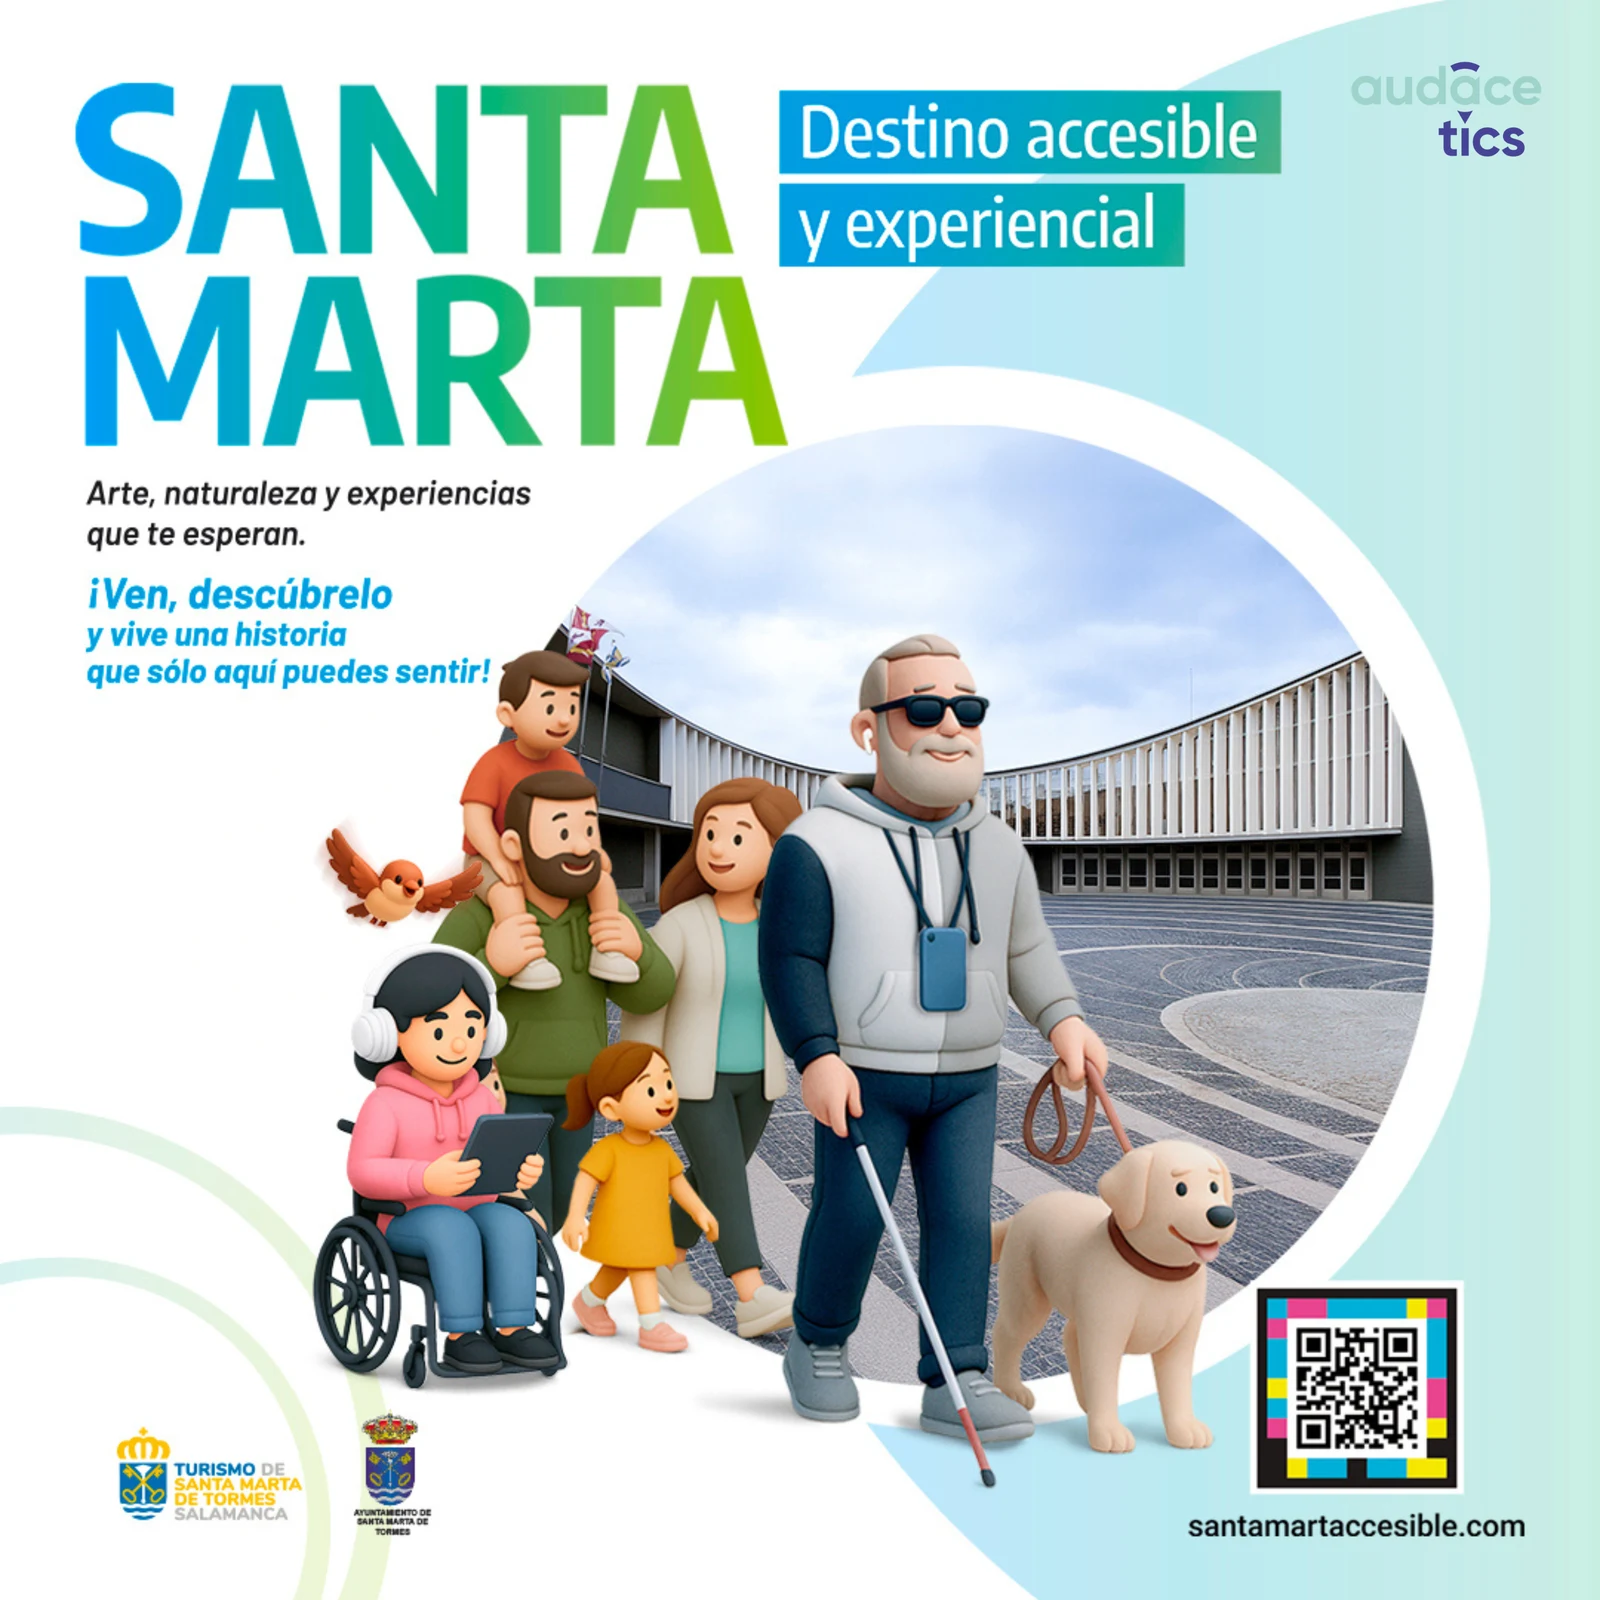
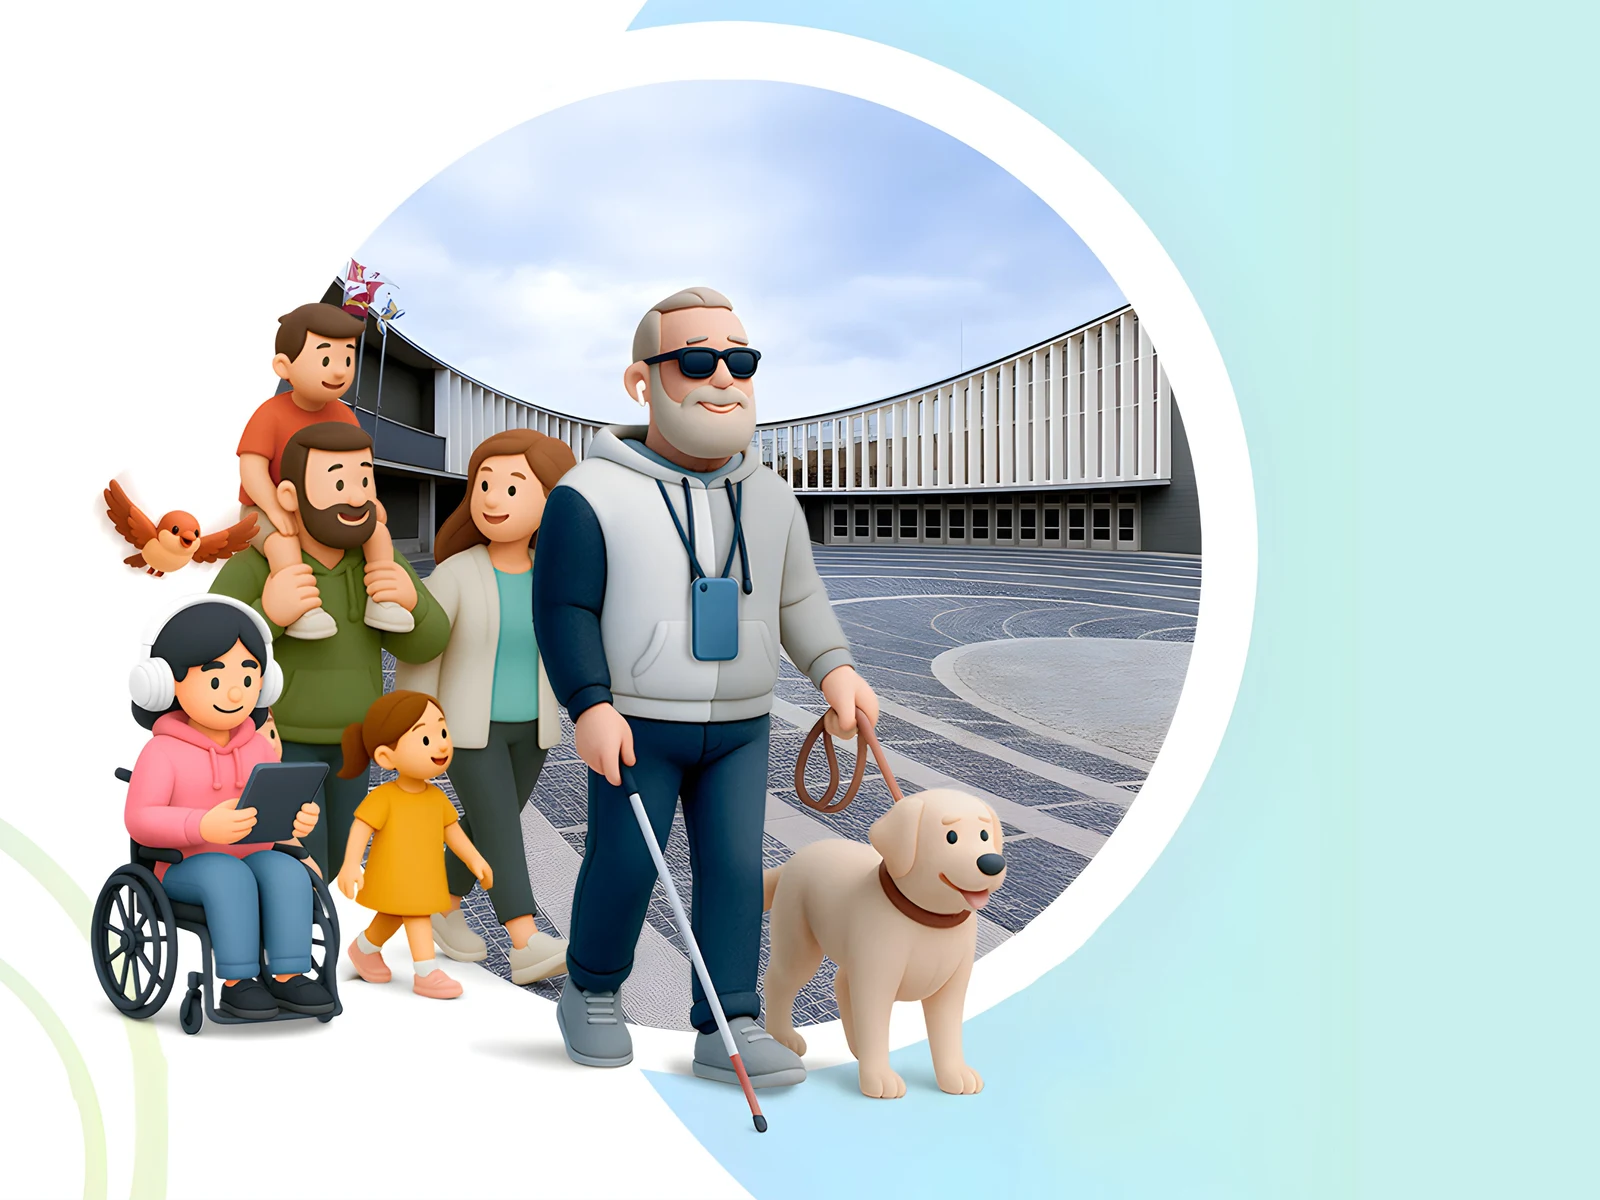
render project tags in front end and use clean images

diff --git a/src/i18n/ui.ts b/src/i18n/ui.ts
@@ -19,6 +19,14 @@ export const ui = {
 		"projects.yours": "Tu proyecto",
 		"projects.see": "Ver proyecto",
 		"projects.newtab": "se abre en una pestaña nueva",
+		"projects.features": "Opciones disponibles",
+		"projects.minutes": "min",
+		"projects.audios": "audios",
+		"projects.feature.lse": "Signoguía LSE",
+		"projects.feature.audiodescription": "Audiodescriptiva",
+		"projects.feature.easyreading": "Lectura Fácil",
+		"projects.feature.subtitles": "Subtítulos",
+		"projects.feature.english": "Audioguía en inglés",
 		"hero.title.main": "Turismo",
 		"hero.title.1": "a tu ritmo",
 		"hero.title.2": "a tu ritmo",
@@ -163,6 +171,14 @@ export const ui = {
 		"projects.yours": "Your project",
 		"projects.see": "View project",
 		"projects.newtab": "opens in a new tab",
+		"projects.features": "Available options",
+		"projects.minutes": "min",
+		"projects.audios": "audio tracks",
+		"projects.feature.lse": "Spanish Sign Language",
+		"projects.feature.audiodescription": "Audio description",
+		"projects.feature.easyreading": "Easy reading",
+		"projects.feature.subtitles": "Subtitles",
+		"projects.feature.english": "Audio guide in English",
 		"hero.title.main": "Tourism",
 		"hero.title.1": "at your pace",
 		"hero.title.2": "at your pace",

diff --git a/src/content/config.ts b/src/content/config.ts
@@ -10,6 +10,10 @@ const projectsCollection = defineCollection({
 			type: z.string(),
 			description: z.string(),
 			link: z.string().url(),
+			// Shown as tags on the card
+			duration: z.number().optional(), // minutes
+			audios: z.number().optional(),
+			features: z.array(z.enum(["lse", "audiodescription", "easyreading", "subtitles", "english"])).default([]),
 			image: z.object({
 				source: image(),
 				alt: z.string(),

diff --git a/src/content/projects/es/centro-interpretacion-ruta-plata.md b/src/content/projects/es/centro-interpretacion-ruta-plata.md
@@ -7,5 +7,6 @@ description: "Audioguía adaptada a la accesibilidad y traducida al inglés del 
 link: "https://www.audioguiamancomunidadrutadelaplata.com/"
 image:
     source: "@assets/images/projects/centro-interpretacion-ruta-plata.webp"
-    alt: "Cartel de la audioguía accesible con el emblema del centro, un código para escanear e iconos de audio, audiodescripción, lectura fácil, subtítulos, lengua de signos e inglés."
+    alt: "Placa del Centro de Interpretación Ruta de la Plata - Sierras de Béjar con una calzada entre montañas, sobre un muro de piedra."
+features: ["lse", "audiodescription", "easyreading", "subtitles", "english"]
 ---

diff --git a/src/content/projects/en/centro-interpretacion-ruta-plata.md b/src/content/projects/en/centro-interpretacion-ruta-plata.md
@@ -7,5 +7,6 @@ description: "Accessible audio guide, translated into English, for the Ruta de l
 link: "https://www.audioguiamancomunidadrutadelaplata.com/"
 image:
     source: "@assets/images/projects/centro-interpretacion-ruta-plata.webp"
-    alt: "Accessible audio guide poster with the centre's emblem, a code to scan and icons for audio, audio description, easy reading, subtitles, sign language and English."
+    alt: "Plaque of the Ruta de la Plata - Sierras de Béjar Interpretation Centre showing a paved road between mountains, on a stone wall."
+features: ["lse", "audiodescription", "easyreading", "subtitles", "english"]
 ---

diff --git a/src/content/projects/es/santa-marta-accesible.md b/src/content/projects/es/santa-marta-accesible.md
@@ -7,5 +7,5 @@ description: "Descubre todo lo que Santa Marta tiene para ofrecerte a tu ritmo y
 link: "https://www.santamartaccesible.com/"
 image:
     source: "@assets/images/projects/santa-marta-accesible.webp"
-    alt: "Cartel de Santa Marta, destino accesible y experiencial: una familia, una persona en silla de ruedas y una persona con bastón y perro guía pasean por una plaza."
+    alt: "Ilustración de una familia, una persona en silla de ruedas y una persona con bastón y perro guía en una plaza."
 ---

diff --git a/src/content/projects/en/isla-del-soto.md b/src/content/projects/en/isla-del-soto.md
@@ -7,5 +7,8 @@ description: "Accessible audio guide, translated into English, for Isla del Soto
 link: "https://soto.santamartaccesible.com/"
 image:
     source: "@assets/images/projects/isla-del-soto.webp"
-    alt: "White bridge and meadows on Isla del Soto. 27 minutes, 10 audio tracks, with Spanish Sign Language, audio description, easy reading and English."
+    alt: "White bridge and meadows on Isla del Soto."
+duration: 27
+audios: 10
+features: ["lse", "audiodescription", "easyreading", "english"]
 ---

diff --git a/src/content/projects/es/ruta-murales.md b/src/content/projects/es/ruta-murales.md
@@ -7,5 +7,8 @@ description: "Audioguía adaptada a la accesibilidad y traducida al inglés de l
 link: "https://murales.santamartaccesible.com/"
 image:
     source: "@assets/images/projects/ruta-murales.webp"
-    alt: "Mural urbano con personajes de dibujos animados. 40 minutos, 20 audios, con signoguía LSE, audiodescriptiva, lectura fácil e inglés."
+    alt: "Mural urbano con personajes de dibujos animados."
+duration: 40
+audios: 20
+features: ["lse", "audiodescription", "easyreading", "english"]
 ---

diff --git a/src/content/projects/es/isla-del-soto.md b/src/content/projects/es/isla-del-soto.md
@@ -7,5 +7,8 @@ description: "Audioguía adaptada a la accesibilidad y traducida al inglés de l
 link: "https://soto.santamartaccesible.com/"
 image:
     source: "@assets/images/projects/isla-del-soto.webp"
-    alt: "Puente blanco y praderas de la Isla del Soto. 27 minutos, 10 audios, con signoguía LSE, audiodescriptiva, lectura fácil e inglés."
+    alt: "Puente blanco y praderas de la Isla del Soto."
+duration: 27
+audios: 10
+features: ["lse", "audiodescription", "easyreading", "english"]
 ---

diff --git a/src/content/projects/es/guardianes-ruta-plata.md b/src/content/projects/es/guardianes-ruta-plata.md
@@ -7,5 +7,5 @@ description: "Marco y Sira necesitan tu ayuda para recuperar la memoria de la Ru
 link: "https://www.guardianesdelarutadelaplata.com/"
 image:
     source: "@assets/images/projects/guardianes-ruta-plata.webp"
-    alt: "Marco, vestido de soldado romano, y Sira, con traje tradicional y abanico, sobre el logotipo del juego Guardianes de la Ruta de la Plata."
+    alt: "Un niño y una niña saludan junto al emblema del juego Guardianes de la Ruta de la Plata, con montañas al fondo."
 ---

diff --git a/src/content/projects/en/ruta-murales.md b/src/content/projects/en/ruta-murales.md
@@ -7,5 +7,8 @@ description: "Accessible audio guide, translated into English, for the urban mur
 link: "https://murales.santamartaccesible.com/"
 image:
     source: "@assets/images/projects/ruta-murales.webp"
-    alt: "Urban mural of cartoon characters. 40 minutes, 20 audio tracks, with Spanish Sign Language, audio description, easy reading and English."
+    alt: "Urban mural of cartoon characters."
+duration: 40
+audios: 20
+features: ["lse", "audiodescription", "easyreading", "english"]
 ---

diff --git a/src/content/projects/en/guardianes-ruta-plata.md b/src/content/projects/en/guardianes-ruta-plata.md
@@ -7,5 +7,5 @@ description: "Marco and Sira need your help to recover the memory of the Silver 
 link: "https://www.guardianesdelarutadelaplata.com/"
 image:
     source: "@assets/images/projects/guardianes-ruta-plata.webp"
-    alt: "Marco, dressed as a Roman soldier, and Sira, in traditional dress with a fan, above the Guardianes de la Ruta de la Plata game logo."
+    alt: "A boy and a girl waving beside the Guardianes de la Ruta de la Plata game emblem, with mountains behind."
 ---

diff --git a/src/content/projects/en/santa-marta-accesible.md b/src/content/projects/en/santa-marta-accesible.md
@@ -7,5 +7,5 @@ description: "Discover everything Santa Marta has to offer, at your own pace and
 link: "https://www.santamartaccesible.com/"
 image:
     source: "@assets/images/projects/santa-marta-accesible.webp"
-    alt: "Santa Marta accessible destination poster: a family, a wheelchair user and a person with a white cane and guide dog stroll through a square."
+    alt: "Illustration of a family, a wheelchair user and a person with a white cane and guide dog in a square."
 ---
